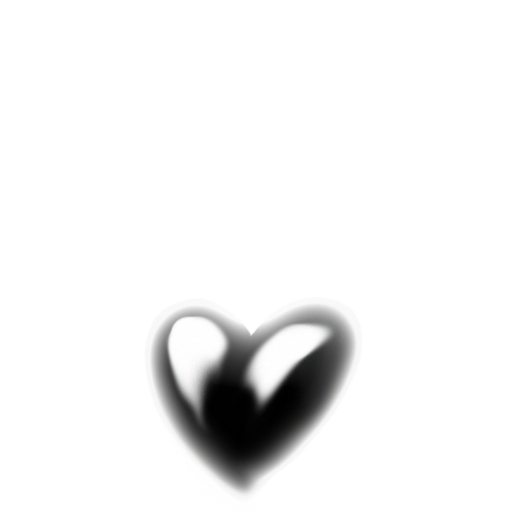
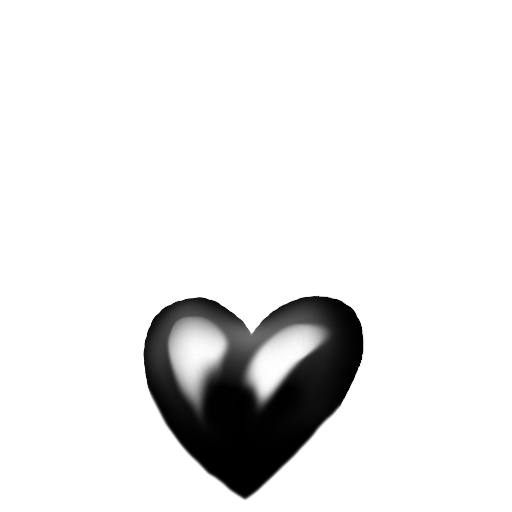
tweaks

Changed region(s): [[0.2812, 0.5625, 0.7188, 1.0]]

diff --git a/src/ThreeDee.ts b/src/ThreeDee.ts
@@ -223,8 +223,8 @@ export class ThreeDee {
 				let heartG = heartSpriteTex.data[heartTexIdx + 1]!;
 				let heartB = heartSpriteTex.data[heartTexIdx + 2]!;
 
-				// Invert heart colors when even number of reflections (including isInMirror)
-				if ((numReflections + (this.game.isInMirror ? 1 : 0)) % 2 === 0) {
+				// Invert heart colors when odd number of reflections (including isInMirror)
+				if ((numReflections + (this.game.isInMirror ? 1 : 0)) % 2 === 1) {
 					heartR = 255 - heartR;
 					heartG = 255 - heartG;
 					heartB = 255 - heartB;
@@ -291,8 +291,7 @@ export class ThreeDee {
 				continue;
 			}
 
-			const v =
-				(yIdx + unclampedSpriteHeight) / (2 * unclampedSpriteHeight);
+			const v = (yIdx + unclampedSpriteHeight) / (2 * unclampedSpriteHeight);
 			const texY =
 				playerSpriteTex.height -
 				1 -
@@ -563,7 +562,8 @@ export class ThreeDee {
 		const helmetSpriteTex = this.helmetSpriteData!;
 		const frameTex = this.frameTextureData!;
 		const heartSpriteTex = this.heartSpriteData!;
-		const halfHeight = Constants.LOWRES_HEIGHT / 2 - Constants.CAMERA_HEIGHT_OFFSET;
+		const halfHeight =
+			Constants.LOWRES_HEIGHT / 2 - Constants.CAMERA_HEIGHT_OFFSET;
 
 		// Pre-compute texture dimensions and masks (assumes power-of-2 textures)
 		const floorTexW = floorTex.width;
@@ -903,18 +903,42 @@ export class ThreeDee {
 					if (vignetteMultiply < 0) {
 						// Darken towards black at edges
 						const factor = 1 - vignette * Math.abs(vignetteMultiply);
-						frameBuffer[idx] = Math.max(0, Math.min(255, frameBuffer[idx]! * factor));
-						frameBuffer[idx + 1] = Math.max(0, Math.min(255, frameBuffer[idx + 1]! * factor));
-						frameBuffer[idx + 2] = Math.max(0, Math.min(255, frameBuffer[idx + 2]! * factor));
+						frameBuffer[idx] = Math.max(
+							0,
+							Math.min(255, frameBuffer[idx]! * factor),
+						);
+						frameBuffer[idx + 1] = Math.max(
+							0,
+							Math.min(255, frameBuffer[idx + 1]! * factor),
+						);
+						frameBuffer[idx + 2] = Math.max(
+							0,
+							Math.min(255, frameBuffer[idx + 2]! * factor),
+						);
 					} else {
 						// Lighten towards white at edges
 						const factor = vignette * vignetteMultiply;
-						frameBuffer[idx] = Math.max(0, Math.min(255,
-							frameBuffer[idx]! + (255 - frameBuffer[idx]!) * factor));
-						frameBuffer[idx + 1] = Math.max(0, Math.min(255,
-							frameBuffer[idx + 1]! + (255 - frameBuffer[idx + 1]!) * factor));
-						frameBuffer[idx + 2] = Math.max(0, Math.min(255,
-							frameBuffer[idx + 2]! + (255 - frameBuffer[idx + 2]!) * factor));
+						frameBuffer[idx] = Math.max(
+							0,
+							Math.min(
+								255,
+								frameBuffer[idx]! + (255 - frameBuffer[idx]!) * factor,
+							),
+						);
+						frameBuffer[idx + 1] = Math.max(
+							0,
+							Math.min(
+								255,
+								frameBuffer[idx + 1]! + (255 - frameBuffer[idx + 1]!) * factor,
+							),
+						);
+						frameBuffer[idx + 2] = Math.max(
+							0,
+							Math.min(
+								255,
+								frameBuffer[idx + 2]! + (255 - frameBuffer[idx + 2]!) * factor,
+							),
+						);
 					}
 				}
 			}

diff --git a/src/doom.ts b/src/doom.ts
@@ -130,7 +130,6 @@ export class Game {
 	private lastDistanceTravelled: number = 0;
 	private transitionTimeRemaining: number = 0;
 	private transitionColor: string = "grey";
-	private static readonly TRANSITION_DURATION: number = 500;
 
 	constructor(
 		private readonly ctx: Ctx,
@@ -221,6 +220,19 @@ export class Game {
 			this.transitionTimeRemaining -= deltaTime;
 			ctx.fillStyle = this.transitionColor;
 			ctx.fillRect(0, 0, Constants.WIDTH, Constants.HEIGHT);
+			if (this.transitionColor === "black" || this.transitionColor === "white") {
+				if (this.transitionColor === "white") {
+					ctx.filter = "invert(1)";
+				}
+				ctx.drawImage(
+					this.helmetSpriteImage,
+					0,
+					0,
+					Constants.WIDTH,
+					Constants.HEIGHT,
+				);
+				ctx.filter = "none";
+			}
 			return;
 		}
 
@@ -361,7 +373,10 @@ export class Game {
 		// Track hearts collected before resetting
 		this.recordHeartsCollected();
 		console.log("loadLevel");
-		this.transitionTimeRemaining = Game.TRANSITION_DURATION;
+		this.transitionTimeRemaining =
+			this.transitionColor === "black"
+				? Constants.LONG_TRANSITION_DURATION
+				: Constants.TRANSITION_DURATION;
 		const levelShape = LEVELS[this.levelIndex]!;
 		this.level = initLevelFromShape(levelShape);
 		this.player.pos = { ...this.level.playerStartPos };

diff --git a/src/Clut.ts b/src/Clut.ts
@@ -12,7 +12,7 @@ export class Clut {
 		return new Clut(Float32Array.from([1, 0, 0, 0, 1, 0, 0, 0, 1]));
 	}
 
-	static makeDarken(factor = 0.99): Clut {
+	static makeDarken(factor = 0.98): Clut {
 		return new Clut(
 			Float32Array.from([factor, 0, 0, 0, factor, 0, 0, 0, factor]),
 		);

diff --git a/src/Constants.ts b/src/Constants.ts
@@ -13,4 +13,6 @@ export const Constants = {
 	PLAYER_Y_FUDGE: 0.6,
 	CAMERA_HEIGHT_OFFSET: 40,
 	HEART_VALUE: 50,
+	TRANSITION_DURATION: 500,
+	LONG_TRANSITION_DURATION: 1000,
 };
